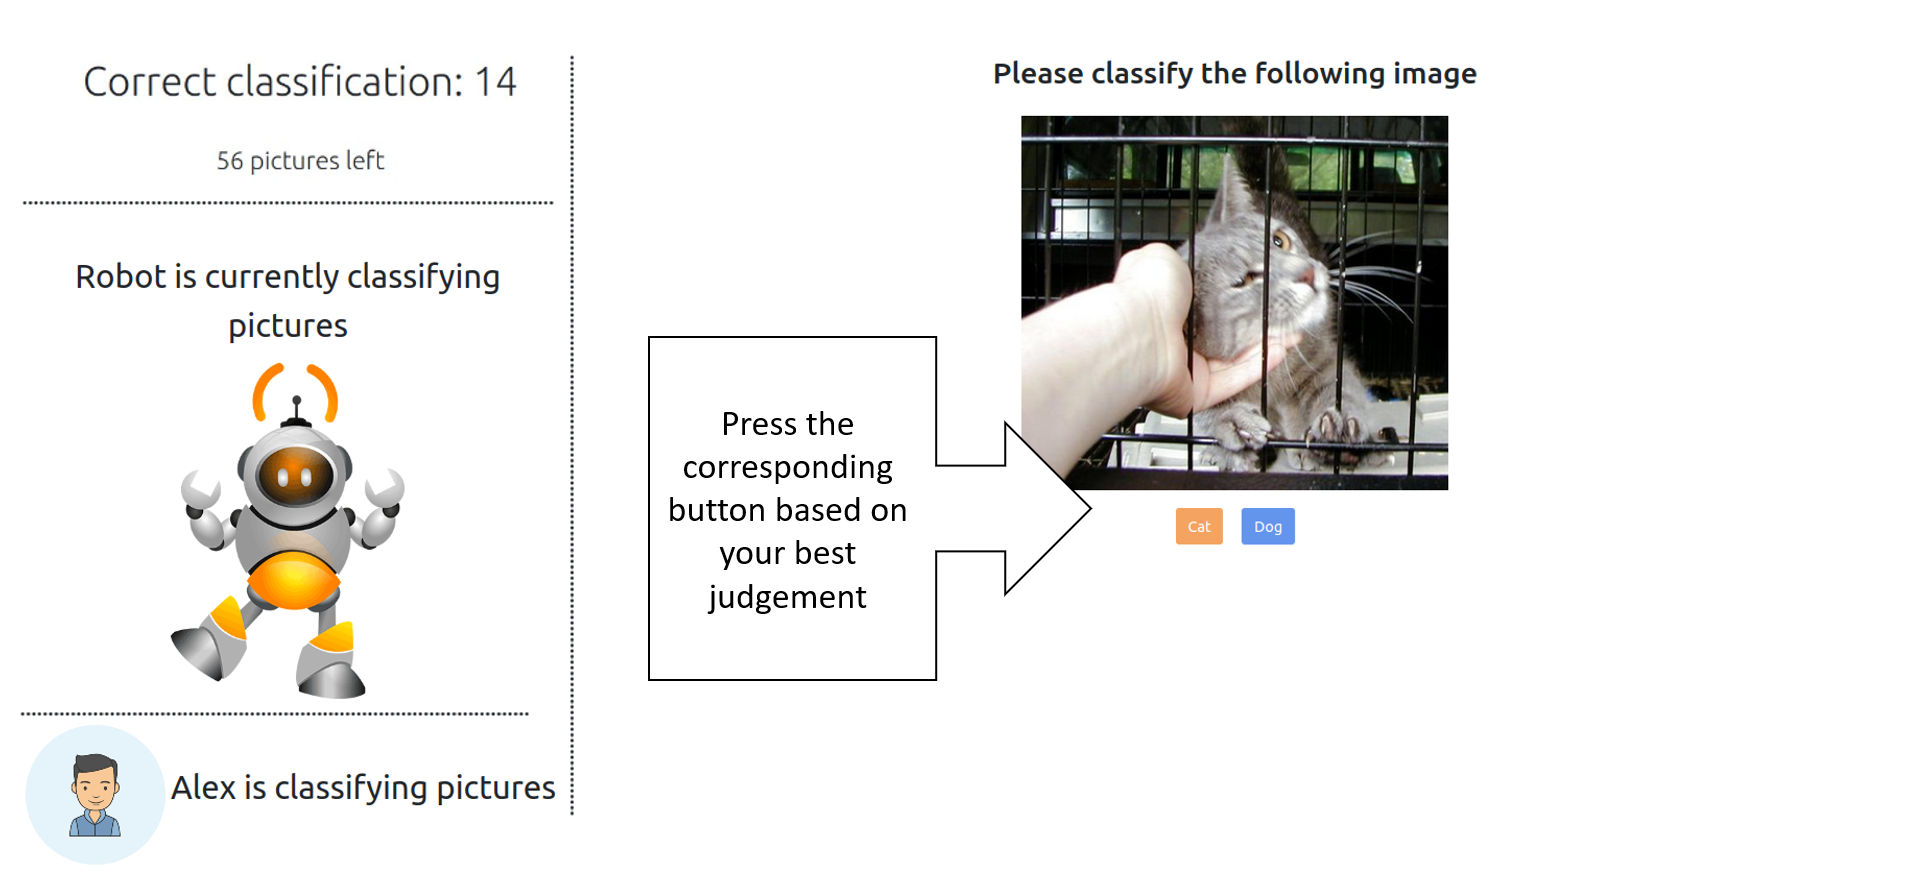
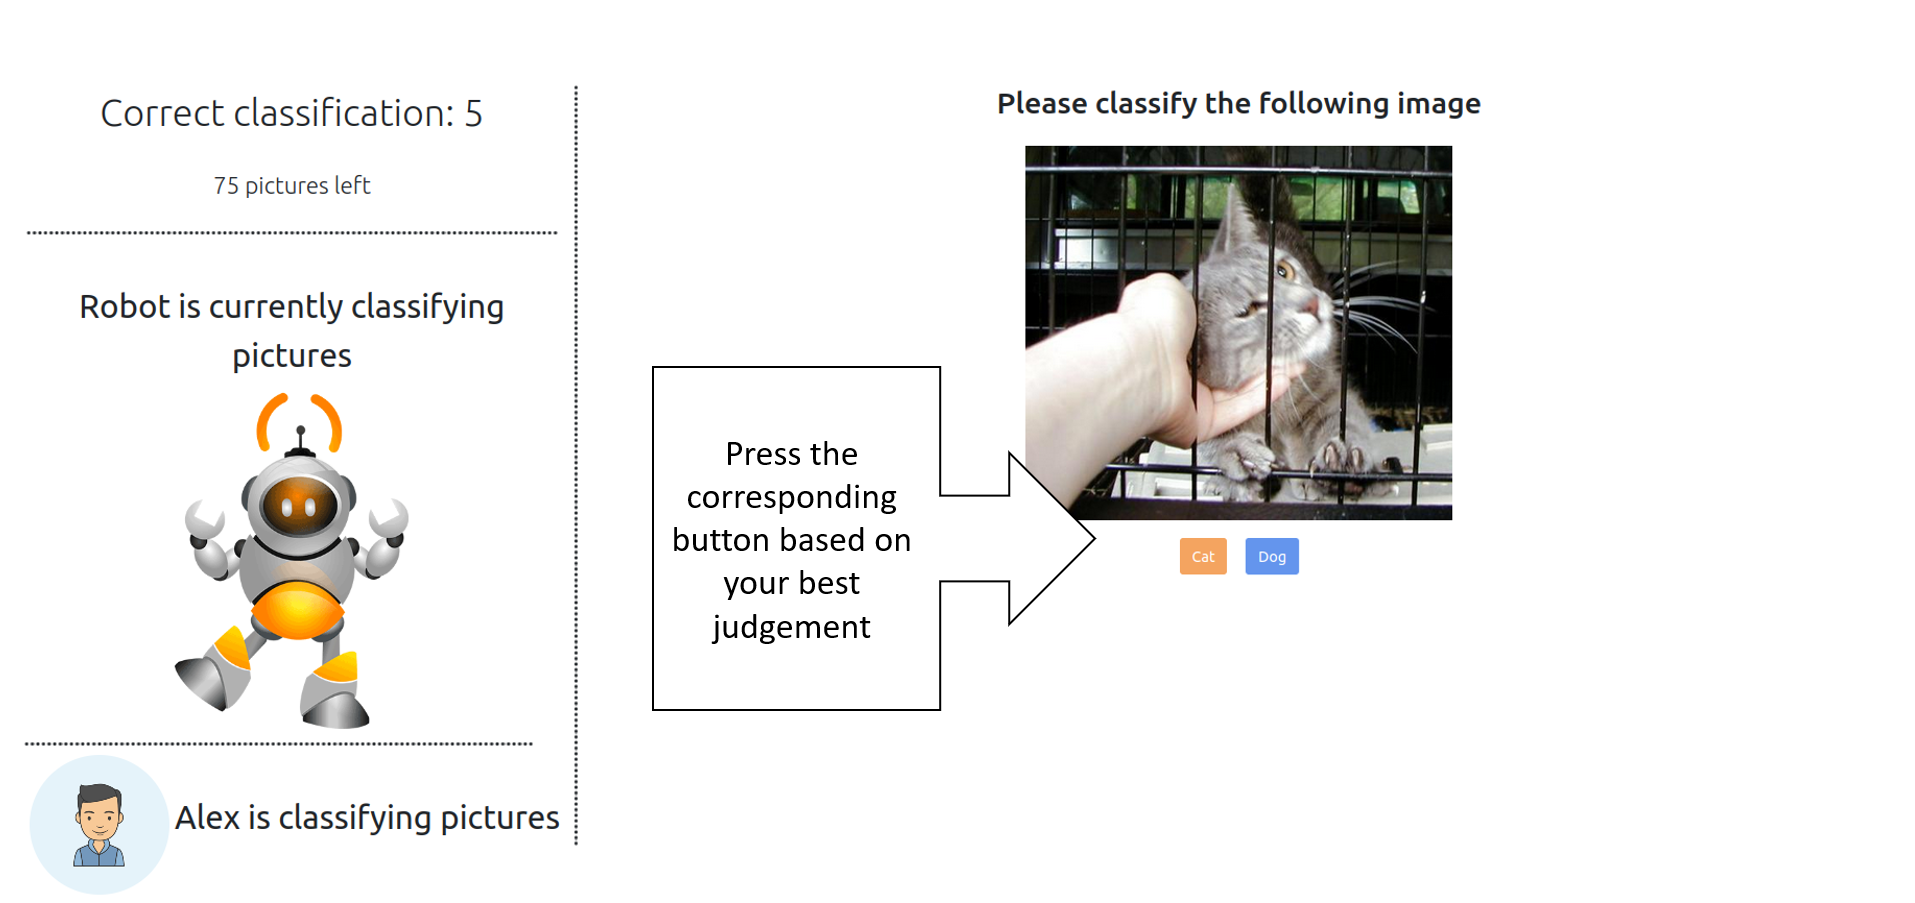
changed for 4 requests

Changed region(s): [[0.3389, 0.0617, 0.7702, 0.8023], [0.0, 0.0617, 0.3081, 0.9566], [0.493, 0.6171, 0.5546, 0.6789]]

diff --git a/src/game/gamePage.js b/src/game/gamePage.js
@@ -42,13 +42,13 @@ function GamePage() {
      */
     useEffect(() => {
         // Change the page to pop up notification about help
-        if (score === 29 || score === 45) {
+        if (score === 29 || score === 45 || score === 61 || score === 77) {
             setHelpRequest(true);
             nextHelpNum(currentHelpNum + 1); // count the help request number
         }
 
         // send to finish function
-        if(score === 70){
+        if(score === 80){
             onCompleteGame();
         }
 
@@ -203,8 +203,8 @@ function GamePage() {
     const onHelpAnswer = () => {
         if (score === 29) {setHelpArray(oldArray => [...oldArray, 1]);}
         if (score === 45) {setHelpArray(oldArray => [...oldArray, 2]);}
-        // if (score === 61) {setHelpArray(oldArray => [...oldArray, 3]);}
-        // if (score === 77) {setHelpArray(oldArray => [...oldArray, 4]);}
+        if (score === 61) {setHelpArray(oldArray => [...oldArray, 3]);}
+        if (score === 77) {setHelpArray(oldArray => [...oldArray, 4]);}
         setClickedNext(false); // move to the second model (open it)
         setQuiz(true);
         setRobot("");
@@ -240,7 +240,7 @@ function GamePage() {
                         <div className={"cls-page"}>
                             <div className={"cls-page-col-2"}>
                                 <div className={"score-div"}>Correct classification: {score}</div>
-                                <div className={"answers-left"}>{70 - score} pictures left</div>
+                                <div className={"answers-left"}>{80 - score} pictures left</div>
                                 <div className={"participants-view-div"}>
                                     <div className={"virtual-player-status-div"}>
                                         {/* The model is the popup for the help request*/}
@@ -286,7 +286,7 @@ function GamePage() {
                         </div> {/* The end game screen */}
                         </div> :
                             <div>
-                                <div className={"complete-game-div"}><strong>Thank you! <br/>You've completed 70 correct
+                                <div className={"complete-game-div"}><strong>Thank you! <br/>You've completed 80 correct
                                     classifications.</strong><br/> Please continue to the feedback stage in order
                                     to successfully finish this Hit. <br/>
                                     <div><Link to={'/feedback'}><Button onClick={onCompleteGame}

diff --git a/src/instructions/gameInstructions.js b/src/instructions/gameInstructions.js
@@ -25,7 +25,7 @@ function GameInstructions() {
       <h2 className={"app-heading-h2"} style={{"marginBottom": "20px"}}>About the task</h2>
       <p className={"instruction-passage"} hidden={partIdx !== 0}>
         <h5 style={{"color": "#db1111"}}>Please take good care, there will be an attention quiz later on!</h5>
-        Your task is to correctly classify 70 pictures of dogs and cats. At any given stage you will receive a
+        Your task is to correctly classify 80 pictures of dogs and cats. At any given stage you will receive a
           picture and you will need to press the button with the correct classification according to your best judgement.<br/>
         To enrich our pile of annotated pictures, we also have a robot and another user named Alex working on the same task
         in parallel (classifying a different set of pictures).<br/>
@@ -37,7 +37,7 @@ function GameInstructions() {
         <span style={{"fontWeight": "bold"}}>Helping the robot takes time as we need to save your current state and
           stream the robot's task instead (and then switch back). We estimate this interruption to take around 30-40
           seconds.<br/></span>You will not get score for identifying the robot's pictures.<br/>Once you finish correctly
-        classifying 70 pictures, we will ask for a short feedback.
+        classifying 80 pictures, we will ask for a short feedback.
       </p>
       <div className={"nav-btn-div"}>
         <Button hidden={partIdx === 0} onClick={onClickPrev}

diff --git a/src/instructions/awarenessQuiz.js b/src/instructions/awarenessQuiz.js
@@ -17,7 +17,7 @@ function AwarenessQuiz() {
     "Q3": "The robot's current picture will be loaded and I will need to classify it (dog or cat)," +
         " and then my own task will be loaded back so I can complete it (about 30-40 seconds delay experienced)",
     "Q4": "Both Alex and I can help the robot when it gets stuck",
-    "Q5": "Once I complete 70 correct classifications and then answered the feedback questions"
+    "Q5": "Once I complete 80 correct classifications and then answered the feedback questions"
   }
 
   const quizDef = {
@@ -73,7 +73,7 @@ function AwarenessQuiz() {
         isRequired: true,
         hasNone: false,
         choices: [
-          "When I complete 70 successful classifications",
+          "When I complete 80 successful classifications",
           "When the robot decides I classified enough images",
             correctAnswers.Q5,
         ]
